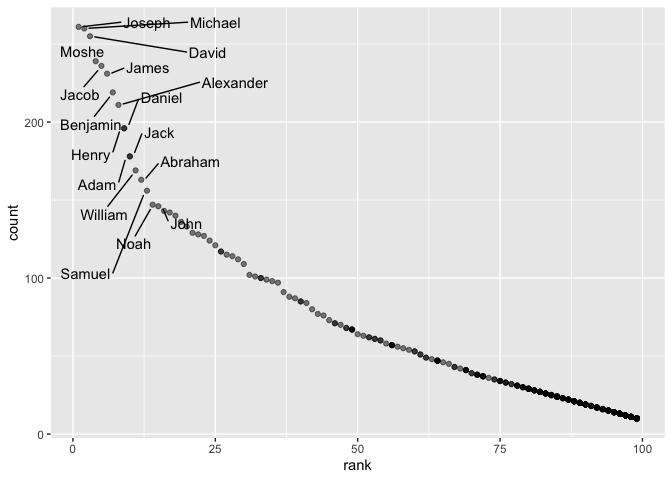
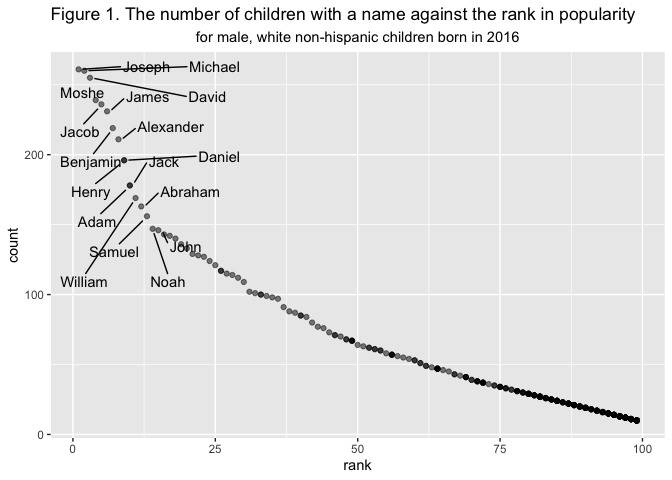
Update table and plot titles

Changed region(s): [[0.0312, 0.0, 1.0, 0.875], [0.0, 0.4375, 0.0312, 0.5625]]

diff --git a/P8105_hw2_gl2677.md b/P8105_hw2_gl2677.md
@@ -46,13 +46,19 @@ prec_2017_2018 = bind_rows(prec_2017 , prec_2018)
 #### Interpretation
 
 There are 285 observations and 14 variables in `mr_trash_wheel` dataset.
-The key variables are weight\_tons, volume\_cubic\_yards,
-plastic\_bottles, polystyrene, cigarette\_butts, glass\_bottles,
-grocery\_bags, chip\_bags, sports\_balls, homes\_powered. The median
-number of sports balls in a dumpster in 2017 was 8.
+This dataset has the information on the dumpter number, date of
+collection, amount of total litter (weight and volume), litter type and
+the number of homes powered by trash. In my opinion, the amount of total
+litter, litter type and homes powered are most important. The key
+variables are `weight_tons, volume_cubic_yards, plastic_bottles,
+polystyrene, cigarette_butts, glass_bottles, grocery_bags, chip_bags,
+sports_balls, homes_powered`. The median number of sports balls in a
+dumpster in 2017 was 8.
 
 There are 19 observations and 3 variables in `prec_2017_2018` dataset.
-The key variables are total. The total precipitation in 2018 was 23.5.
+This dataset shows the total precipitation in the corresponding month
+and year. The key variables are `total`. The total precipitation in 2018
+was 23.5.
 
 ## Problem 2
 
@@ -65,8 +71,8 @@ pols_month =
   mutate(year = as.numeric(year),
          month = as.numeric(month),
          month = month.name[month],
-         president = factor(prez_gop, 
-                            levels = c("gop"  = 0, "dem" = 1),
+         president = factor(prez_dem, 
+                            levels = c("gop"  = 1, "dem" = 0),
                             labels = c("gop","dem"))) %>% 
   select(-day, -prez_gop, -prez_dem)
 ```
@@ -105,22 +111,22 @@ pols_snp_unemp = left_join(pols_snp, unemployment, by = c("year","month"))
 There are 822 observations and 9 variables in `pols_month` dataset. This
 dataset shows the president’s political party and the number of national
 politicians who are democratic or republican at any given time. The key
-variables are gov\_gop, sen\_gop, rep\_gop, gov\_dem, sen\_dem. The
-range of year is from 1947 to 2015.
+variables are `gov_gop, sen_gop, rep_gop, gov_dem, sen_dem, rep_dem,
+president`. The range of year is from 1947 to 2015.
 
 There are 787 observations and 3 variables in `snp` dataset. This
 dataset is related to Standard & Poor’s stock market index (S\&P) at any
-given time. The key variables are close. The range of year is from 1950
-to 2015.
+given time. The key variables are `close`. The range of year is from
+1950 to 2015.
 
 There are 816 observations and 3 variables in `unemployment` dataset.
 This dataset shows unemployment percentage at any given time. The key
-variables are percentage. The range of year is from 1948 to 2015.
+variables are `percentage`. The range of year is from 1948 to 2015.
 
-There are 822 observations and 9 variables in `pols_snp_unemp`
-**resulting dataset**. The key variables are gov\_gop, sen\_gop,
-rep\_gop, gov\_dem, sen\_dem, rep\_dem, president, close, percentage.
-The range of year is from 1947 to 2015.
+There are 822 observations and 11 variables in `pols_snp_unemp`
+**resulting dataset**. The key variables are `gov_gop, sen_gop, rep_gop,
+gov_dem, sen_dem, rep_dem, president, close, percentage`. The range of
+year is from 1947 to 2015.
 
 ## Problem 3
 
@@ -132,7 +138,8 @@ baby_names =
   janitor::clean_names() %>% 
   mutate(gender = str_to_lower(gender),
          ethnicity = str_to_lower(ethnicity),
-         childs_first_name = str_to_lower(childs_first_name)) %>% 
+         childs_first_name = str_to_lower(childs_first_name),
+         ethnicity = recode(ethnicity, `asian and paci` = "asian and pacific islander", `black non hisp` = "black non hispanic", `white non hisp` = "white non hispanic")) %>% 
   distinct() 
 ```
 
@@ -144,19 +151,19 @@ folivia = baby_names %>%
   select(-childs_first_name, -gender, -count) %>% 
   pivot_wider(names_from = "year_of_birth",
               values_from = "rank") %>% 
-  knitr::kable()
+  knitr::kable(caption = "Table 1. The rank in popularity of the name “Olivia” as a female baby name over time.")
 folivia
 ```
 
 | ethnicity                  | 2016 | 2015 | 2014 | 2013 | 2012 | 2011 |
 | :------------------------- | ---: | ---: | ---: | ---: | ---: | ---: |
-| asian and pacific islander |    1 |    1 |    1 |    3 |   NA |    4 |
-| black non hispanic         |    8 |    4 |    8 |    6 |   NA |   10 |
+| asian and pacific islander |    1 |    1 |    1 |    3 |    3 |    4 |
+| black non hispanic         |    8 |    4 |    8 |    6 |    8 |   10 |
 | hispanic                   |   13 |   16 |   16 |   22 |   22 |   18 |
-| white non hispanic         |    1 |    1 |    1 |    1 |   NA |    2 |
-| asian and paci             |   NA |   NA |   NA |   NA |    3 |   NA |
-| black non hisp             |   NA |   NA |   NA |   NA |    8 |   NA |
-| white non hisp             |   NA |   NA |   NA |   NA |    4 |   NA |
+| white non hispanic         |    1 |    1 |    1 |    1 |    4 |    2 |
+
+Table 1. The rank in popularity of the name “Olivia” as a female baby
+name over time.
 
 #### Name of rank first over time
 
@@ -167,19 +174,18 @@ mrank = baby_names %>%
   mutate(childs_first_name = str_to_title(childs_first_name)) %>% 
   pivot_wider(names_from = "year_of_birth",
               values_from = "childs_first_name") %>% 
-  knitr::kable()
+  knitr::kable(caption = "Table 2. The most popular name among male children over time.")
 mrank
 ```
 
 | ethnicity                  | 2016   | 2015   | 2014   | 2013   | 2012   | 2011    |
 | :------------------------- | :----- | :----- | :----- | :----- | :----- | :------ |
-| asian and pacific islander | Ethan  | Jayden | Jayden | Jayden | NA     | Ethan   |
-| black non hispanic         | Noah   | Noah   | Ethan  | Ethan  | NA     | Jayden  |
+| asian and pacific islander | Ethan  | Jayden | Jayden | Jayden | Ryan   | Ethan   |
+| black non hispanic         | Noah   | Noah   | Ethan  | Ethan  | Jayden | Jayden  |
 | hispanic                   | Liam   | Liam   | Liam   | Jayden | Jayden | Jayden  |
-| white non hispanic         | Joseph | David  | Joseph | David  | NA     | Michael |
-| asian and paci             | NA     | NA     | NA     | NA     | Ryan   | NA      |
-| black non hisp             | NA     | NA     | NA     | NA     | Jayden | NA      |
-| white non hisp             | NA     | NA     | NA     | NA     | Joseph | NA      |
+| white non hispanic         | Joseph | David  | Joseph | David  | Joseph | Michael |
+
+Table 2. The most popular name among male children over time.
 
 #### Scatterplot
 
@@ -191,7 +197,10 @@ baby_names %>%
   geom_point(alpha = 0.5) + 
   geom_text_repel(aes(label = ifelse(rank <= 15, as.character(childs_first_name),'')),
                   box.padding   = 0.5,
-                  point.padding = 0.5)
+                  point.padding = 0.5) +
+  labs(title = "Figure 1. The number of children with a name against the rank in popularity ",
+          subtitle = "for male, white non-hispanic children born in 2016") +
+  theme(plot.subtitle = element_text(hjust = 0.5))
 ```
 
 ![](P8105_hw2_gl2677_files/figure-gfm/unnamed-chunk-9-1.png)<!-- -->
